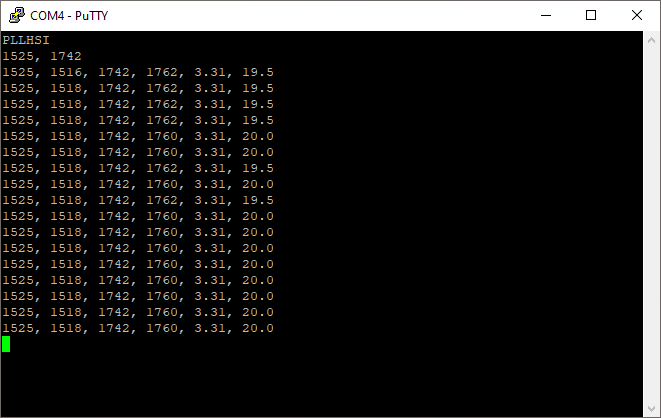
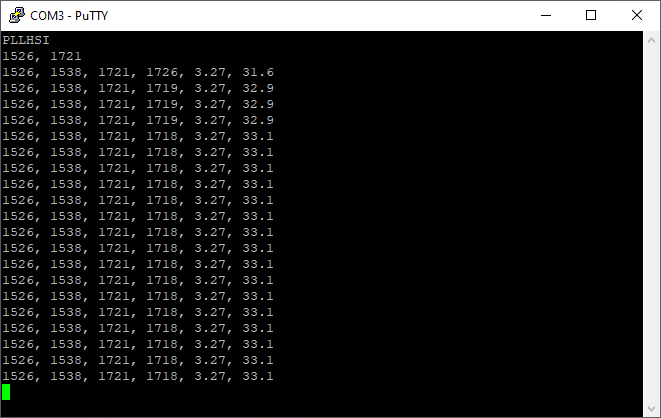
Update temperature formula in 34 ADC internal voltage and temperature sensors.

diff --git a/stm32bringup/34_adcvnt.md b/stm32bringup/34_adcvnt.md
@@ -71,7 +71,7 @@ maximum ADC sampling clock is 14MHz. It is possible to select either an
 internal 14 MHz clock (HSI14) or PCLK divided by 2 or 4. I want to check
 how the clock affects the readings (HSI14, 28/2, 24/2, 48/4). At first I
 couldn’t manage to make PCLK/4 work until I found the note on ADC
-calibration work around in the errata [ES0219](
+calibration work around in the errata [ES0219 2.5.3](
 https://www.st.com/content/st_com/en/search.html#q=%20ES0219-t=resources-page=1).
 
 After this initialization, I can trigger an ADC conversion by issuing a
@@ -117,7 +117,7 @@ memory.
 
 ```c
 /* STM32F030 calibration addresses (at 3.3V and 30C) */
-#define TS_CAL                  ((unsigned short *) 0x1FFFF7B8)
+#define TS_CAL1                 ((unsigned short *) 0x1FFFF7B8)
 #define VREFINT_CAL             ((unsigned short *) 0x1FFFF7BA)
 ```
 
@@ -191,7 +191,7 @@ void adc_vnt( vnt_cmd_t cmd, short *ptrV, short *ptrC) {
     if( cmd <= VNT_CAL) {
     /* Calibration Values */
         *ptrV = *VREFINT_CAL ;
-        *ptrC = *TS_CAL ;
+        *ptrC = *TS_CAL1 ;
         return ;
     }
 
@@ -200,14 +200,14 @@ void adc_vnt( vnt_cmd_t cmd, short *ptrV, short *ptrC) {
     *ptrV = adc_convert() ;
 
     if( cmd == VNT_VNC) {
+        *ptrC = 300 + (*TS_CAL1 - *ptrC * *VREFINT_CAL / *ptrV) * 10000 / 5336 ;
         *ptrV = 330 * *VREFINT_CAL / *ptrV ;
-        *ptrC = 850 + (1500 - *ptrC) * 10 / 4 ;
     }
 }
 ```
 
-The calculation for the temperature will be updated once I have done a
-two point temperature calibration.
+The calculation for the temperature is based on the code example from
+the reference manual (RM0360 A.7.16).
 
 The only thing missing is the description of the newly used registers
 and bitfields.
@@ -285,8 +285,9 @@ int main( void) {
 #ifdef RAW
             adc_vnt( VNT_RAW, &Vsample, &Csample) ;
             printf( "%i, %i, %i, %i, ", calV, Vsample, calC, Csample) ;
+            Csample = 300 + (calC - (int) Csample * calV / Vsample)
+                                                                * 10000 / 5336 ;
             Vsample = 330 * calV / Vsample ;
-            Csample = 850 + (1500 - (int) Csample) * 10 / 4 ;
 #else
             adc_vnt( VNT_VNC, &Vsample, &Csample) ;
 #endif
@@ -337,6 +338,8 @@ Flashing the board and starting execution, I can see the results of the
 ADC conversion and the calculated values.
 
 ![Raw ADC conversion readings]( img/34_output.png)
+
+The temperature readings are roughly 5℃ higher than room temperature.
 
 ## Checkpoint
 
